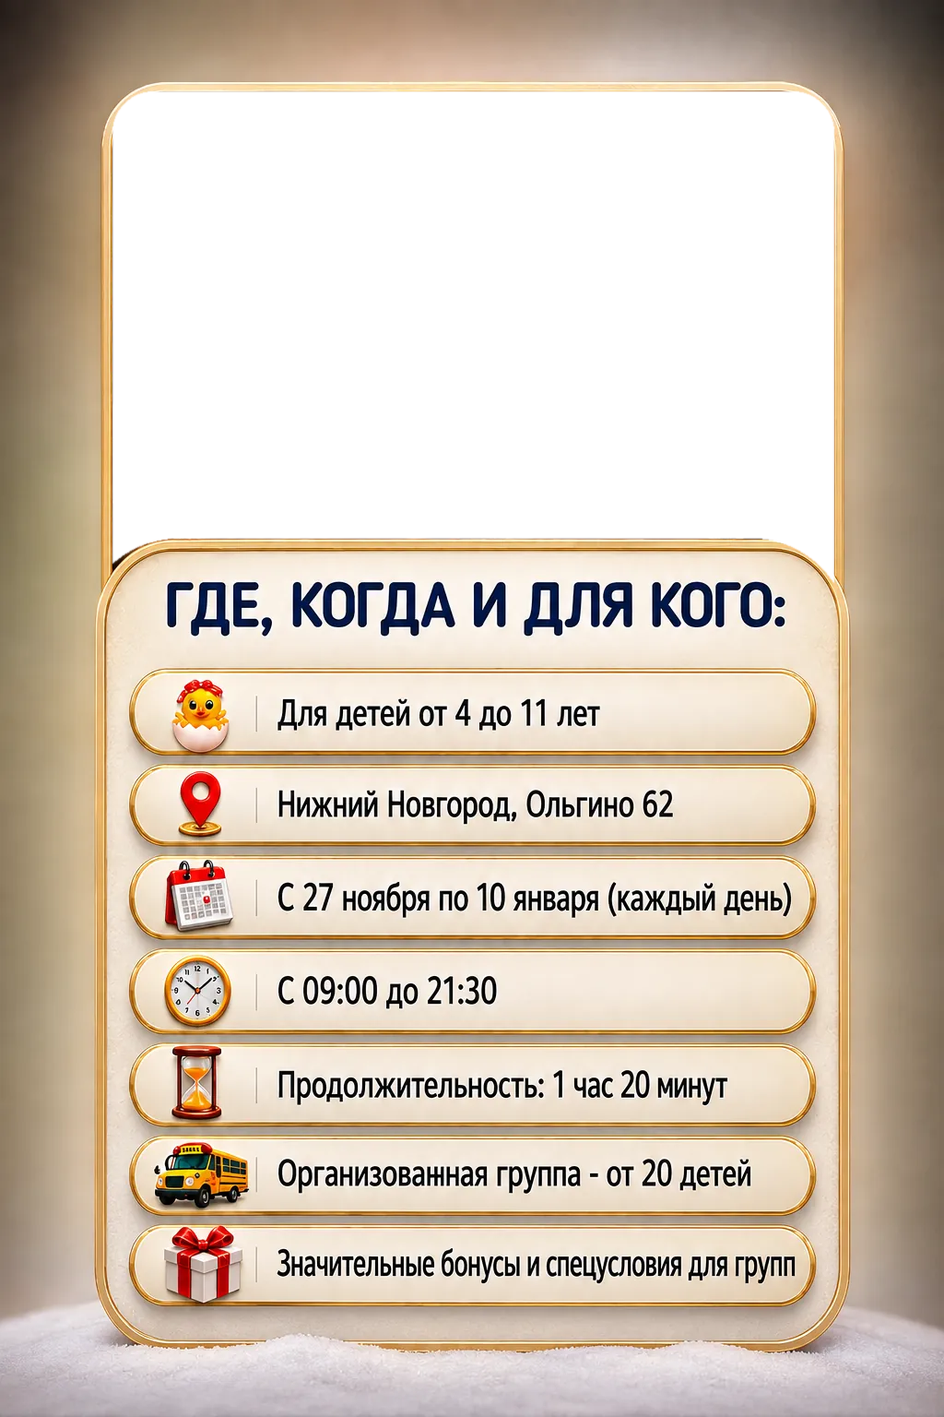
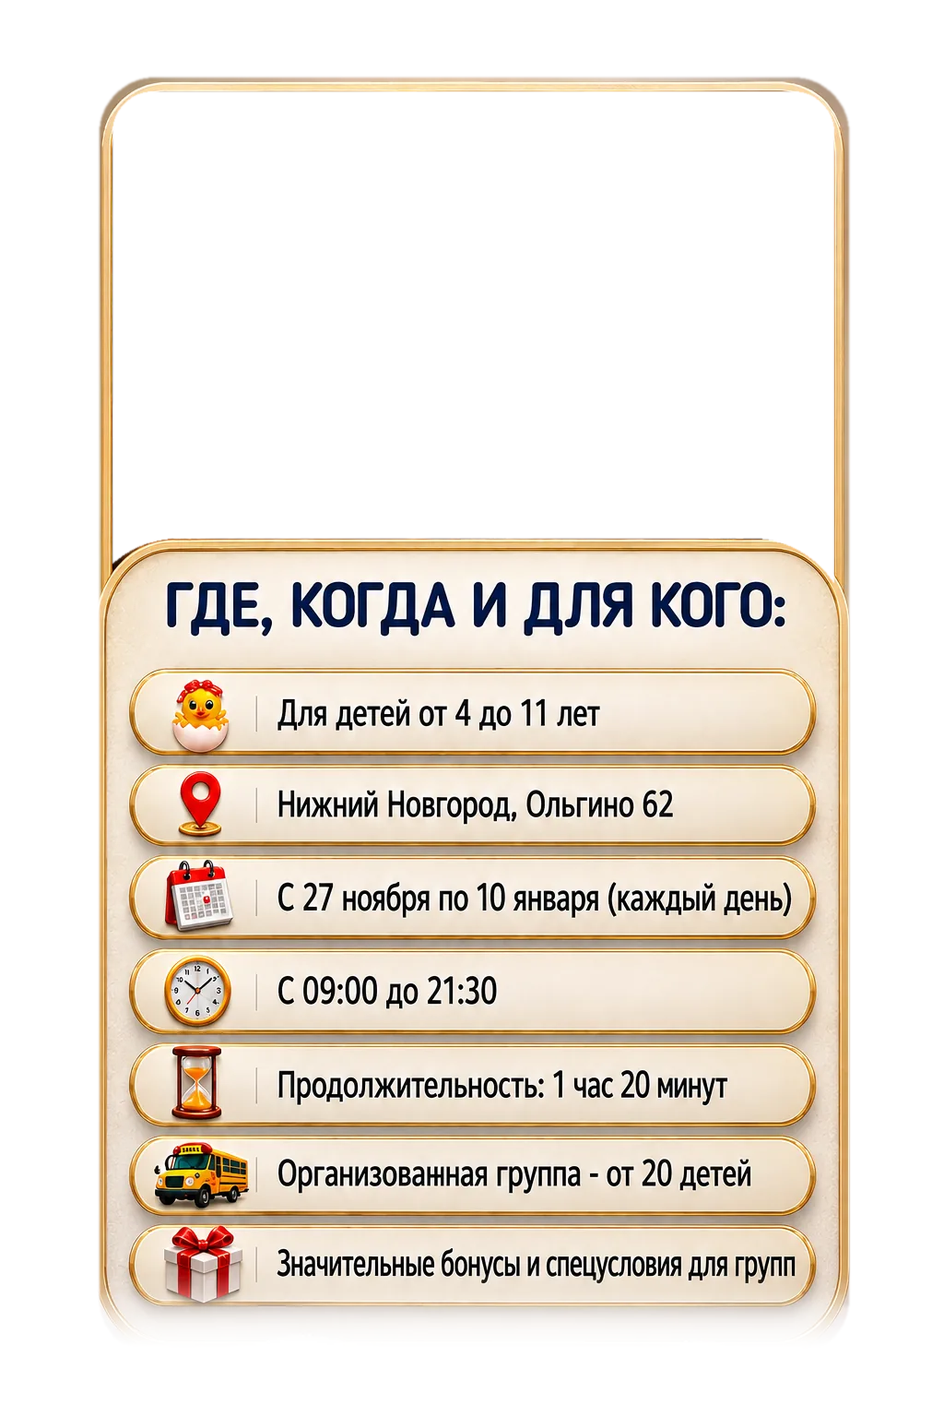
Сайт НН: четвёртый экран на телефоне стал белым полем
Песочный фон вокруг карточки вырезан в самой картинке — она лежит на белом
поле секции и отбрасывает свою тень. Низ карточки, утопленный в снегу,
плавно уходит в белое.

Верхняя дуга с золотым бликом заходит на экран с картой (отрицательный
margin-top), кромка и свечение сделаны плотнее: на белом поле дугу видно
только по ним. Звёзды на белом убраны, кнопка «Оставить заявку» с экрана
убрана, снизу — прямая граница с ночным небом пятого экрана.

diff --git a/v2.html b/v2.html
@@ -98,20 +98,6 @@ body{
 .stage > *{position:absolute; inset:0}
 #v{width:100%; height:100%; object-fit:cover; display:block; z-index:1;
    filter:saturate(1.14) contrast(1.07) brightness(1.04)}
-/* Ролик — часть декорации, а не плеер. Браузер по своей воле включает над ним
-   родную панель: на телефоне — когда автозапуск не прошёл, на любом экране —
-   от нажатия по кадру. Панель кладёт поверх видео тёмную подложку и полосу
-   перемотки, и первый экран темнеет. Гасим панель во всех её видах и снимаем
-   с видео нажатия — оно ничем не управляется, кроме прокрутки. */
-#v{pointer-events:none}
-#v::-webkit-media-controls,
-#v::-webkit-media-controls-enclosure,
-#v::-webkit-media-controls-panel,
-#v::-webkit-media-controls-panel-container,
-#v::-webkit-media-controls-overlay-play-button,
-#v::-webkit-media-controls-start-playback-button{
-  display:none !important; opacity:0 !important; -webkit-appearance:none;
-}
 #poster{width:100%; height:100%; object-fit:cover; display:block; z-index:2; pointer-events:none;
   filter:saturate(1.14) contrast(1.07) brightness(1.04); transition:opacity .32s ease}
 .vig{
@@ -916,32 +902,32 @@ body{
      плашки) заменена одной картинкой — запас под девушку внизу карты убран. */
   .dk{
     --m: min(100vw, 620px);
-    margin:0;                                          /* поляна с её вылетами — только на широком экране */
+    /* 05.09.2026: экран стал белым полем. Верхней дугой заходим на экран
+       с картой — так же, как на широком экране это делает шапка Деда Мороза. */
+    margin:calc(-96 * var(--m) / 1080) 0 0;
     background:none;                                   /* фон уезжает на «холм» */
-    padding-bottom:calc(150 * var(--m) / 1080);
+    padding-bottom:calc(96 * var(--m) / 1080);
   }
   /* холм: фон секции с дугой по верхней кромке. Дуга снята с макета —
      вершина по центру, к краям опускается на 128 px макета. */
   .dk::after{
     content:''; position:absolute; inset:0; z-index:2; pointer-events:none;
-    background:linear-gradient(180deg, #00043E 0%, #000338 26%, #000335 100%);
+    background:#fff;                                 /* 05.09.2026: белое поле вместо ночного */
     border-radius:50% 50% 0 0 /
       calc(128 * var(--m) / 1080) calc(128 * var(--m) / 1080) 0 0;
-    border-top:max(2px, calc(5 * var(--m) / 1080)) solid rgba(255,236,196,.95);
-    box-shadow:0 calc(-6 * var(--m) / 1080) calc(70 * var(--m) / 1080) rgba(255,183,92,.5);
+    /* кромка и блик светят вверх, на ночное поле карты: белую дугу на белом
+       поле видно только по ним, поэтому золото плотнее, чем было на тёмном */
+    border-top:max(2px, calc(6 * var(--m) / 1080)) solid #FFE0A8;
+    box-shadow:0 calc(-8 * var(--m) / 1080) calc(84 * var(--m) / 1080) rgba(255,183,92,.78);
     animation:dkArc 6s ease-in-out infinite;
   }
   @keyframes dkArc{
-    0%,100%{box-shadow:0 calc(-6 * var(--m) / 1080) calc(64 * var(--m) / 1080) rgba(255,183,92,.42)}
-    50%    {box-shadow:0 calc(-6 * var(--m) / 1080) calc(96 * var(--m) / 1080) rgba(255,201,120,.62)}
+    0%,100%{box-shadow:0 calc(-8 * var(--m) / 1080) calc(74 * var(--m) / 1080) rgba(255,183,92,.66)}
+    50%    {box-shadow:0 calc(-8 * var(--m) / 1080) calc(108 * var(--m) / 1080) rgba(255,201,120,.9)}
   }
   /* звёзды соседней сессии поднимаем над холмом и обрезаем той же дугой,
      иначе на телефоне их не было бы видно вообще */
-  .dk-sky{
-    display:block; z-index:3;
-    border-radius:50% 50% 0 0 /
-      calc(128 * var(--m) / 1080) calc(128 * var(--m) / 1080) 0 0;
-  }
+  .dk-sky{display:none}                              /* поле белое — звёздам негде гореть */
   /* письма и поляны на телефоне нет — вместо них картинка .dkm на «холме» */
   .dk-art,.dk-bg{display:none}
   /* z-index 7 — как у .cr-cont, в котором сцена лежала раньше: без него
@@ -991,9 +977,6 @@ body{
   .dk-list li:nth-child(3),
   .dk-list li:nth-child(4),
   .dk-list li:nth-child(6){padding-left:calc(146 * var(--m) / 1080)}
-  .dk-list li:nth-child(3),
-  .dk-list li:nth-child(4),
-  .dk-list li:nth-child(6){padding-left:calc(146 * var(--m) / 1080)}
   .dk-ico{
     left:calc(6 * var(--m) / 1080); width:calc(122 * var(--m) / 1080);
     height:auto; font-size:max(22px, calc(74 * var(--m) / 1080));
@@ -1011,20 +994,12 @@ body{
   .dkm{display:block; position:relative; z-index:5;
     width:var(--m); margin:calc(70 * var(--m) / 1080) auto 0}
   .dkm-hold{position:relative; width:100%; aspect-ratio:1024/1536}
-  /* Края растворяем со всех четырёх сторон. Свой фон у картинки светлее
-     ночного неба секции, и без растушёвки видно прямоугольник — «наклеенный
-     лист»; особенно на планшете, где картинка уже экрана. Две маски
-     перемножаются (composite), крайние 4 % холста — чистый фон, рамка
-     начинается на 11,9 % по горизонтали и на 5,7 % сверху, маска её не задевает. */
+  /* Фон вокруг карточки вырезан в самой картинке, поэтому маски краёв нет:
+     карточка лежит на белом поле секции. Тень рисуем сами — по её альфе. */
   .dkm-pic{position:absolute; inset:0; display:block; width:100%; height:100%;
-    -webkit-mask-image:linear-gradient(180deg, transparent 0, #000 4.2%, #000 93.5%, transparent 100%),
-                       linear-gradient(90deg, transparent 0, #000 4%, #000 96%, transparent 100%);
-    -webkit-mask-composite:source-in;
-            mask-image:linear-gradient(180deg, transparent 0, #000 4.2%, #000 93.5%, transparent 100%),
-                       linear-gradient(90deg, transparent 0, #000 4%, #000 96%, transparent 100%);
-            mask-composite:intersect;}
+    filter:drop-shadow(0 calc(8 * var(--m) / 1080) calc(20 * var(--m) / 1080) rgba(38,26,8,.20));}
   .dkm-win{position:absolute; left:11.914%; top:6.445%;
-    width:76.367%; height:36.523%; overflow:hidden; background:#1B1008}
+    width:76.367%; height:36.523%; overflow:hidden; background:#EDE3D0}
   .dkm-win img{position:absolute; inset:0; width:100%; height:100%;
     object-fit:cover; opacity:0}                    /* смена кадров — резкая, без плавности */
   .dkm-win img.on{opacity:1}
@@ -1032,7 +1007,7 @@ body{
      они остаются для поиска и для тех, кто слушает страницу голосом */
   .dk-t,.dk-list{position:absolute; width:1px; height:1px; margin:0; padding:0;
     overflow:hidden; clip-path:inset(50%); white-space:nowrap; border:0}
-  .dk-cta{display:block; margin-top:calc(40 * var(--m) / 1080)}
+  .dk-cta{display:none}                              /* 05.09.2026: кнопку с экрана убрали */
   .dk-btn{padding:calc(38 * var(--m) / 1080) calc(80 * var(--m) / 1080);
     font-size:calc(40 * var(--m) / 1080); border-radius:calc(10 * var(--m) / 1080)}
   /* появление плашек по очереди. Прятать их умеет только класс .dkrv, а его
@@ -1077,24 +1052,20 @@ body{
 }
 /* отблески: синий, пурпурный, лиловый и один тёплый снизу. Еле заметно
    дышат — движение не должно ловиться боковым зрением, пока человек читает
-   поля. Анимируются только transform и opacity.
-   БЕЗ filter:blur — намеренно. Мягкость даёт сам радиальный градиент (стопы
-   до самого края), а размытие семи кругов по миллиону пикселей каждый роняло
-   частоту кадров втрое: браузер пересчитывал blur при каждой перерисовке
-   соседнего неба (замер 04.09.2026: 18 кадров против 46 без filter). */
+   поля. Анимируются только transform и opacity. */
 .bk-glow{position:absolute; inset:0; z-index:0; pointer-events:none; overflow:hidden}
-.bk-glow i{position:absolute; display:block; border-radius:50%; will-change:transform,opacity}
-.bk-glow i:nth-child(1){left:-22vw; top:0; width:72vw; height:62%;
-  background:radial-gradient(closest-side, rgba(47,49,146,.5) 0%, rgba(47,49,146,.34) 32%, rgba(47,49,146,.12) 64%, rgba(47,49,146,0) 100%);
+.bk-glow i{position:absolute; display:block; border-radius:50%; filter:blur(80px); will-change:transform,opacity}
+.bk-glow i:nth-child(1){left:-18vw; top:6%; width:64vw; height:52%;
+  background:radial-gradient(closest-side, rgba(47,49,146,.5), rgba(47,49,146,0) 70%);
   animation:bkDrift1 36s ease-in-out infinite alternate}
-.bk-glow i:nth-child(2){right:-24vw; top:-10%; width:74vw; height:66%;
-  background:radial-gradient(closest-side, rgba(108,43,217,.36) 0%, rgba(108,43,217,.24) 32%, rgba(108,43,217,.08) 64%, rgba(108,43,217,0) 100%);
+.bk-glow i:nth-child(2){right:-20vw; top:-4%; width:66vw; height:56%;
+  background:radial-gradient(closest-side, rgba(108,43,217,.36), rgba(108,43,217,0) 70%);
   animation:bkDrift2 43s ease-in-out infinite alternate}
-.bk-glow i:nth-child(3){left:4vw; bottom:4%; width:62vw; height:58%;
-  background:radial-gradient(closest-side, rgba(176,106,224,.24) 0%, rgba(176,106,224,.16) 32%, rgba(176,106,224,.05) 64%, rgba(176,106,224,0) 100%);
+.bk-glow i:nth-child(3){left:8vw; bottom:10%; width:54vw; height:48%;
+  background:radial-gradient(closest-side, rgba(176,106,224,.24), rgba(176,106,224,0) 70%);
   animation:bkDrift3 31s ease-in-out infinite alternate}
-.bk-glow i:nth-child(4){left:50%; bottom:-12%; width:78vw; height:54%; margin-left:-39vw;
-  background:radial-gradient(closest-side, rgba(227,179,78,.2) 0%, rgba(227,179,78,.13) 32%, rgba(227,179,78,.04) 64%, rgba(227,179,78,0) 100%);
+.bk-glow i:nth-child(4){left:50%; bottom:-6%; width:70vw; height:46%; margin-left:-35vw;
+  background:radial-gradient(closest-side, rgba(227,179,78,.2), rgba(227,179,78,0) 70%);
   animation:bkDrift2 39s ease-in-out infinite alternate-reverse}
 @keyframes bkDrift1{from{transform:translate3d(0,0,0) scale(1);    opacity:.9}
                     to  {transform:translate3d(4%,3%,0) scale(1.08); opacity:1}}
@@ -1117,26 +1088,25 @@ body{
   width:min(100%,1400px); margin:0 auto; text-align:center;
   padding:clamp(34px,3.4vw,60px) clamp(18px,3.8vw,72px) clamp(30px,3vw,54px);
   border-radius:clamp(22px,2.1vw,36px);
-  background:linear-gradient(180deg, rgba(9,16,50,.9) 0%, rgba(7,11,36,.95) 100%);
+  background:linear-gradient(180deg, rgba(9,16,50,.88) 0%, rgba(7,11,36,.93) 100%);
   box-shadow:
     inset 0 0 0 1px rgba(227,179,78,.34),
     inset 0 1px 0 rgba(255,238,190,.22),
     0 50px 110px -40px rgba(0,0,0,.9),
     0 0 180px -50px rgba(108,43,217,.5);
-  /* backdrop-filter здесь НЕ ставить: за окном дышат отблески, и матовое
-     стекло заставляло бы браузер пересчитывать размытие каждый кадр
-     (замер 04.09.2026: 23 кадра со стеклом против 60 без). Перелив фона —
-     вкус Серёги, стекло — нет, поэтому убрано стекло. */
 }
-/* небо внутри окна — тоже градиентами без filter, по той же причине */
+@supports ((-webkit-backdrop-filter:blur(1px)) or (backdrop-filter:blur(1px))){
+  .bk-card{background:linear-gradient(180deg, rgba(9,16,50,.76) 0%, rgba(7,11,36,.84) 100%);
+    -webkit-backdrop-filter:blur(14px) saturate(1.1); backdrop-filter:blur(14px) saturate(1.1)}
+}
 .bk-card-sky{position:absolute; inset:0; z-index:0; pointer-events:none; overflow:hidden}
-.bk-card-sky i{position:absolute; display:block; border-radius:50%}
-.bk-card-sky i:nth-child(1){left:-28%; top:-36%; width:80%; height:92%;
-  background:radial-gradient(closest-side, rgba(47,49,146,.5) 0%, rgba(47,49,146,.3) 36%, rgba(47,49,146,.08) 70%, rgba(47,49,146,0) 100%)}
-.bk-card-sky i:nth-child(2){right:-22%; top:-16%; width:68%; height:86%;
-  background:radial-gradient(closest-side, rgba(108,43,217,.3) 0%, rgba(108,43,217,.18) 36%, rgba(108,43,217,.05) 70%, rgba(108,43,217,0) 100%)}
-.bk-card-sky i:nth-child(3){left:16%; bottom:-46%; width:68%; height:80%;
-  background:radial-gradient(closest-side, rgba(227,179,78,.13) 0%, rgba(227,179,78,.08) 36%, rgba(227,179,78,.02) 70%, rgba(227,179,78,0) 100%)}
+.bk-card-sky i{position:absolute; display:block; border-radius:50%; filter:blur(60px)}
+.bk-card-sky i:nth-child(1){left:-22%; top:-30%; width:70%; height:80%;
+  background:radial-gradient(closest-side, rgba(47,49,146,.5), rgba(47,49,146,0) 70%)}
+.bk-card-sky i:nth-child(2){right:-18%; top:-10%; width:60%; height:76%;
+  background:radial-gradient(closest-side, rgba(108,43,217,.3), rgba(108,43,217,0) 70%)}
+.bk-card-sky i:nth-child(3){left:20%; bottom:-40%; width:60%; height:70%;
+  background:radial-gradient(closest-side, rgba(227,179,78,.13), rgba(227,179,78,0) 70%)}
 .bk-card > *:not(.bk-card-sky){position:relative; z-index:1}
 
 .bk-eyebrow{margin:0 0 clamp(12px,1.3vw,18px); font-family:"Golos Text",Arial,sans-serif;
@@ -1277,7 +1247,7 @@ body{
    этого экрана должен быть того же цвета. */
 @media (max-width:1279px){
   .bk{
-    padding-top:clamp(70px,12.8vw,128px);   /* 05.09.2026: воздух над окном в 1,6 раза больше */
+    padding-top:clamp(44px,8vw,80px);
     background:
       radial-gradient(70vw 22vw at 50% 0%, rgba(0,52,130,.6), rgba(0,52,130,0) 100%),
       linear-gradient(180deg,#000335 0%,#03073A 14%,#060B2E 40%,#050922 76%,#04071A 100%);
@@ -1313,7 +1283,6 @@ body{
   .bk.rv .bk-card{opacity:1; transform:none; transition:none}
   .bk-done:not([hidden]) .bk-seal{animation:none}
 }
-
 
 /* ==================== ЭКРАН 6: «Звёздная смена» ====================
    Афиша новой программы: рукописный надзаголовок, крупный заголовок,
@@ -2186,7 +2155,7 @@ html.zs-lock .nav{margin-right:var(--zs-sbw,0px)}
           <div class="bk-f">
             <label class="zs-lab" for="bkName">Ваше имя</label>
             <input class="zs-inp" id="bkName" name="name" type="text" autocomplete="given-name"
-                   placeholder="Как к вам обращаться" maxlength="60">
+                   placeholder="Имя" maxlength="60">
           </div>
           <div class="bk-f">
             <label class="zs-lab" for="bkPhone">Ваш телефон <span class="zs-req" aria-hidden="true">*</span></label>
@@ -2248,7 +2217,6 @@ html.zs-lock .nav{margin-right:var(--zs-sbw,0px)}
   </div>
 
 </section>
-
 
 <!-- ==================== ЭКРАН 6: «Звёздная смена» ====================
      Афиша новой программы. Ниже формы заявки — так в макете Серёги.
@@ -2751,18 +2719,6 @@ html.zs-lock .nav{margin-right:var(--zs-sbw,0px)}
     }
   }
   ensureSize();
-
-  // Панель плеера гасится стилями, но браузер может ещё и включить сам атрибут
-  // controls (Safari делает это, когда считает ролик «настоящим видео»), а на
-  // айфоне — увести кадр в свой полноэкранный плеер. Держим оборону и здесь.
-  function noControls(){ if(v.controls){ v.controls=false; } v.removeAttribute('controls'); }
-  noControls();
-  ['loadedmetadata','loadeddata','canplay','playing','pause','seeked'].forEach(function(e){
-    v.addEventListener(e, noControls);
-  });
-  v.addEventListener('webkitbeginfullscreen', function(){
-    try{ if(v.webkitExitFullscreen) v.webkitExitFullscreen(); }catch(e){}
-  });
 
   v.addEventListener('loadedmetadata', function(){
     if(v.duration && isFinite(v.duration)) dur=v.duration; ready=true;
@@ -4412,57 +4368,7 @@ html.zs-lock .nav{margin-right:var(--zs-sbw,0px)}
 (function(){
   'use strict';
 
-  /* Боевой приёмник заявок. Заявка уходит к нам, оттуда за секунды создаётся
-     сделка в AmoCRM в воронке нужного города. Даже если AmoCRM легла, телефон
-     остаётся у нас и виден менеджеру - терять живого клиента из-за чужого сбоя
-     нельзя. Пустая строка здесь снова выключит отправку: форма будет просто
-     показывать «принято», как было во время сборки страницы.
-     После переезда на российский сервер меняется только этот адрес. */
-  var HOST     = 'https://mnd-schedule.vercel.app';
-  var ENDPOINT = HOST + '/api/public/site-leads';
-  var VISIT    = HOST + '/api/public/site-visit';
-
-  /* ---------- отметка захода ----------
-     Нужна для внутренней страницы статистики: посетители и заявки должны
-     считаться в одном месте, иначе конверсию приходится сводить руками.
-     Отправляем один раз за визит. Ни IP, ни имя браузера не шлём - только
-     случайный номер, который лежит в памяти этого браузера и ни к какому
-     человеку не привязан. */
-  (function(){
-    if (!VISIT) return;
-    var vid, sent;
-    try {
-      vid = localStorage.getItem('zs_vid');
-      if (!vid){
-        vid = (Date.now().toString(36) + Math.random().toString(36).slice(2, 12));
-        localStorage.setItem('zs_vid', vid);
-      }
-      sent = sessionStorage.getItem('zs_visit_sent');
-    } catch(_){ return; }   /* приватный режим - счётчик просто молчит */
-    if (sent) return;
-
-    var utm = {}, q = location.search.slice(1).split('&');
-    for (var i = 0; i < q.length; i++){
-      var kv = q[i].split('=');
-      if (kv[0].indexOf('utm_') === 0){
-        try { utm[kv[0]] = decodeURIComponent(kv[1] || ''); } catch(_){}
-      }
-    }
-
-    try { sessionStorage.setItem('zs_visit_sent', '1'); } catch(_){}
-    fetch(VISIT, {
-      method: 'POST',
-      headers: {'Content-Type':'application/json'},
-      keepalive: true,
-      body: JSON.stringify({
-        visitor:  vid,
-        page:     location.pathname + location.search,
-        referrer: document.referrer || '',
-        device:   window.matchMedia('(max-width: 900px)').matches ? 'mobile' : 'desktop',
-        utm:      utm
-      })
-    }).catch(function(){});   /* счётчик не должен мешать странице жить */
-  })();
+  var ENDPOINT = '';          // '' — не отправляем, только показываем «принято»
 
   /* ---------- телефон ---------- */
   function digitsIn(s){ var m = String(s).match(/\d/g); return m ? m.length : 0; }
